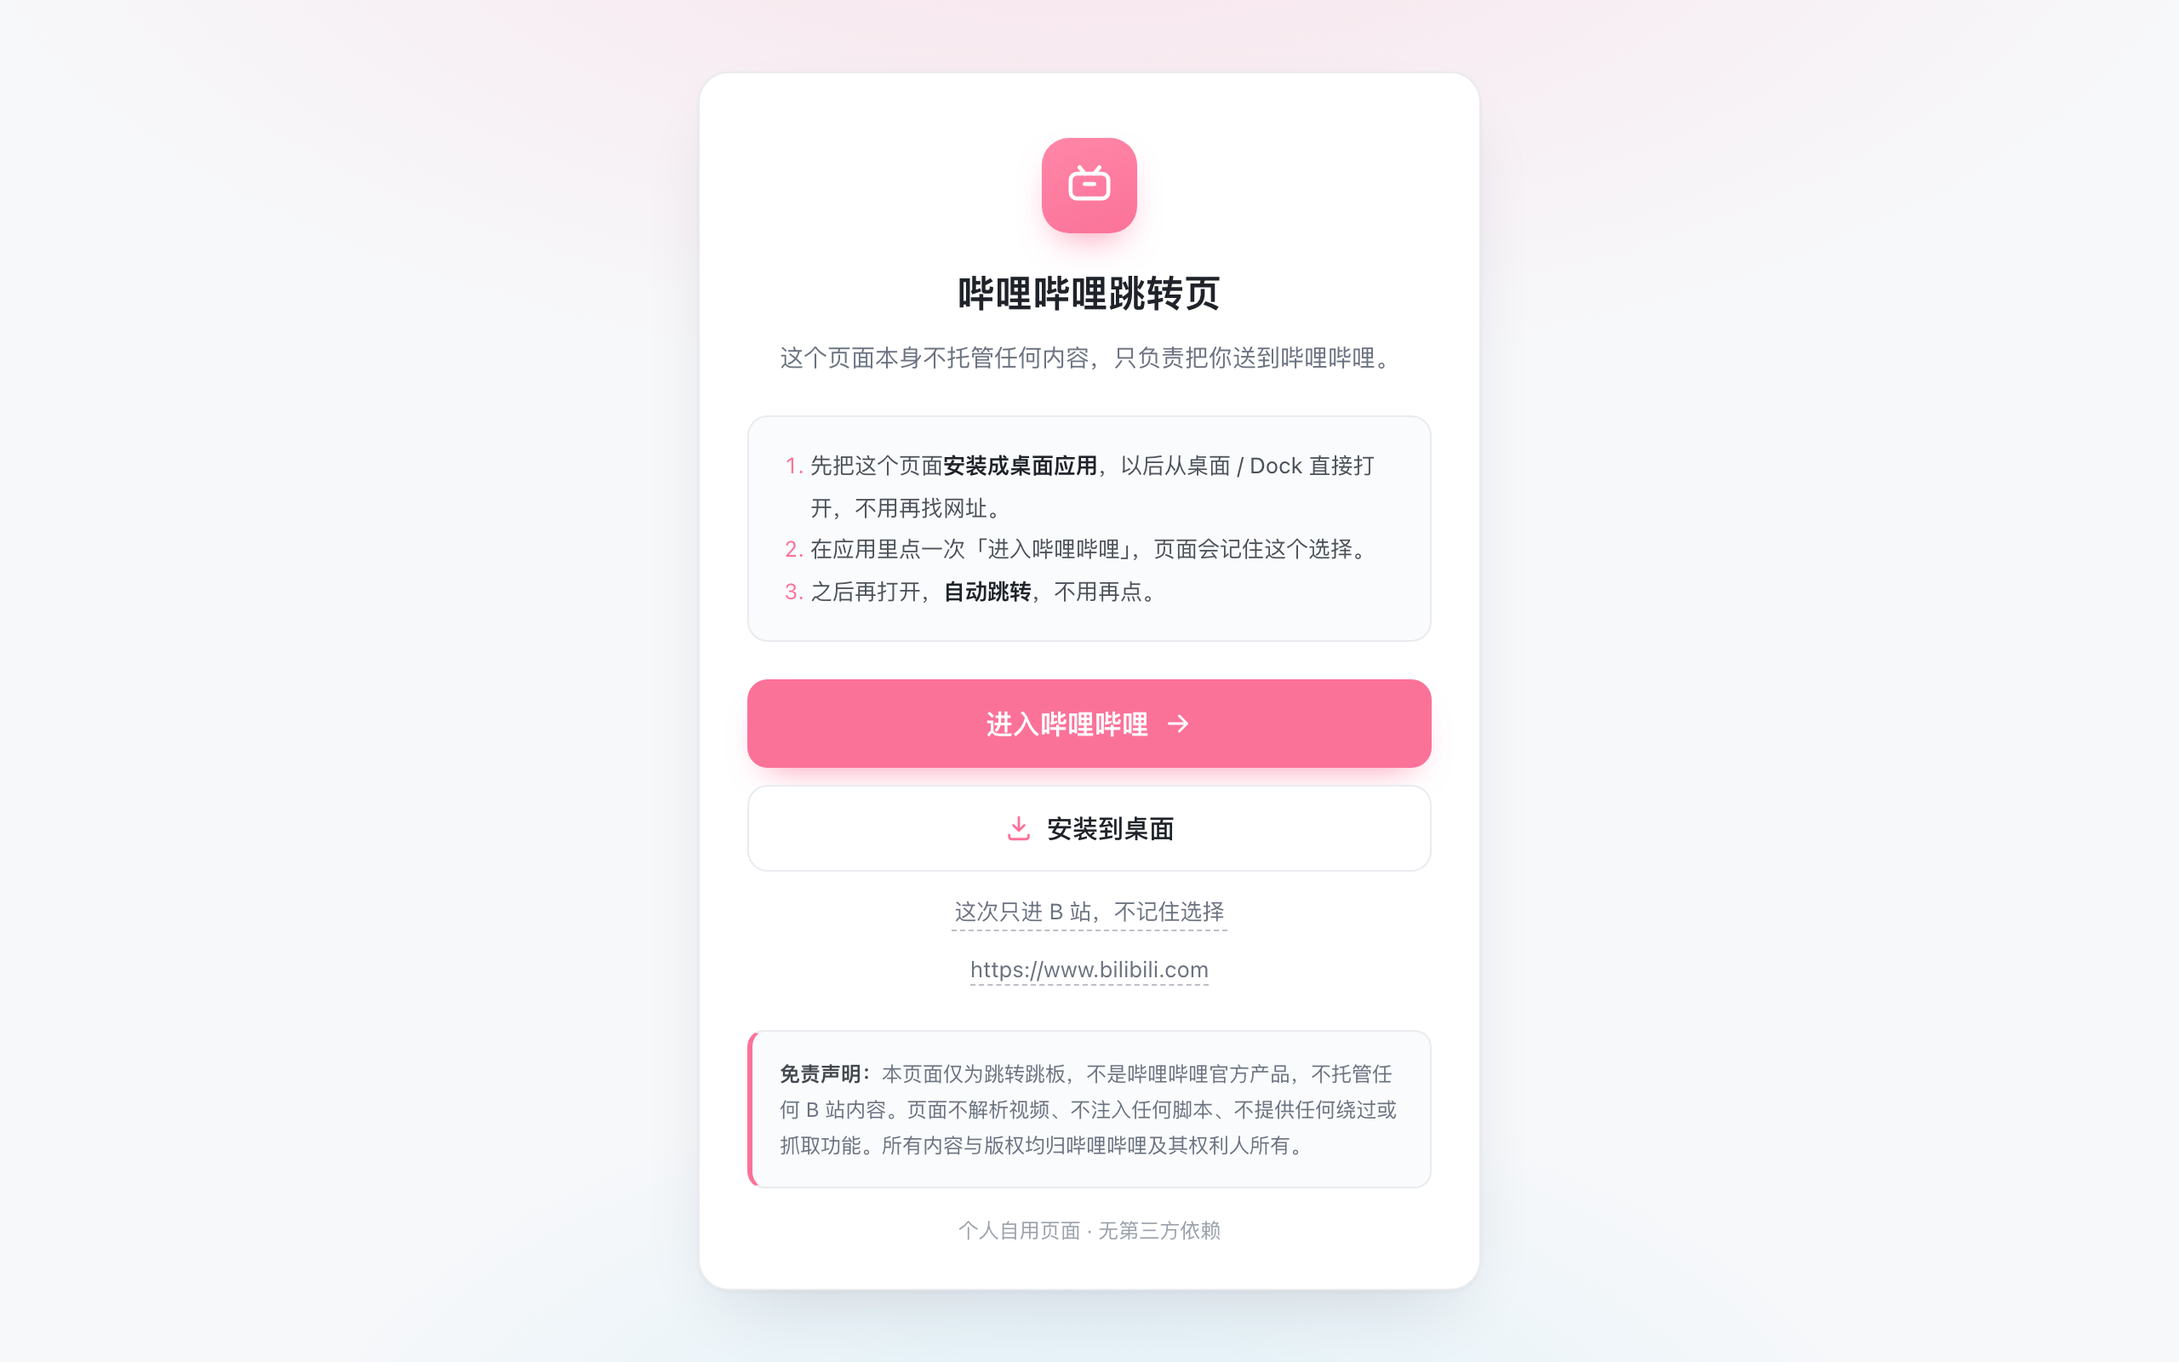
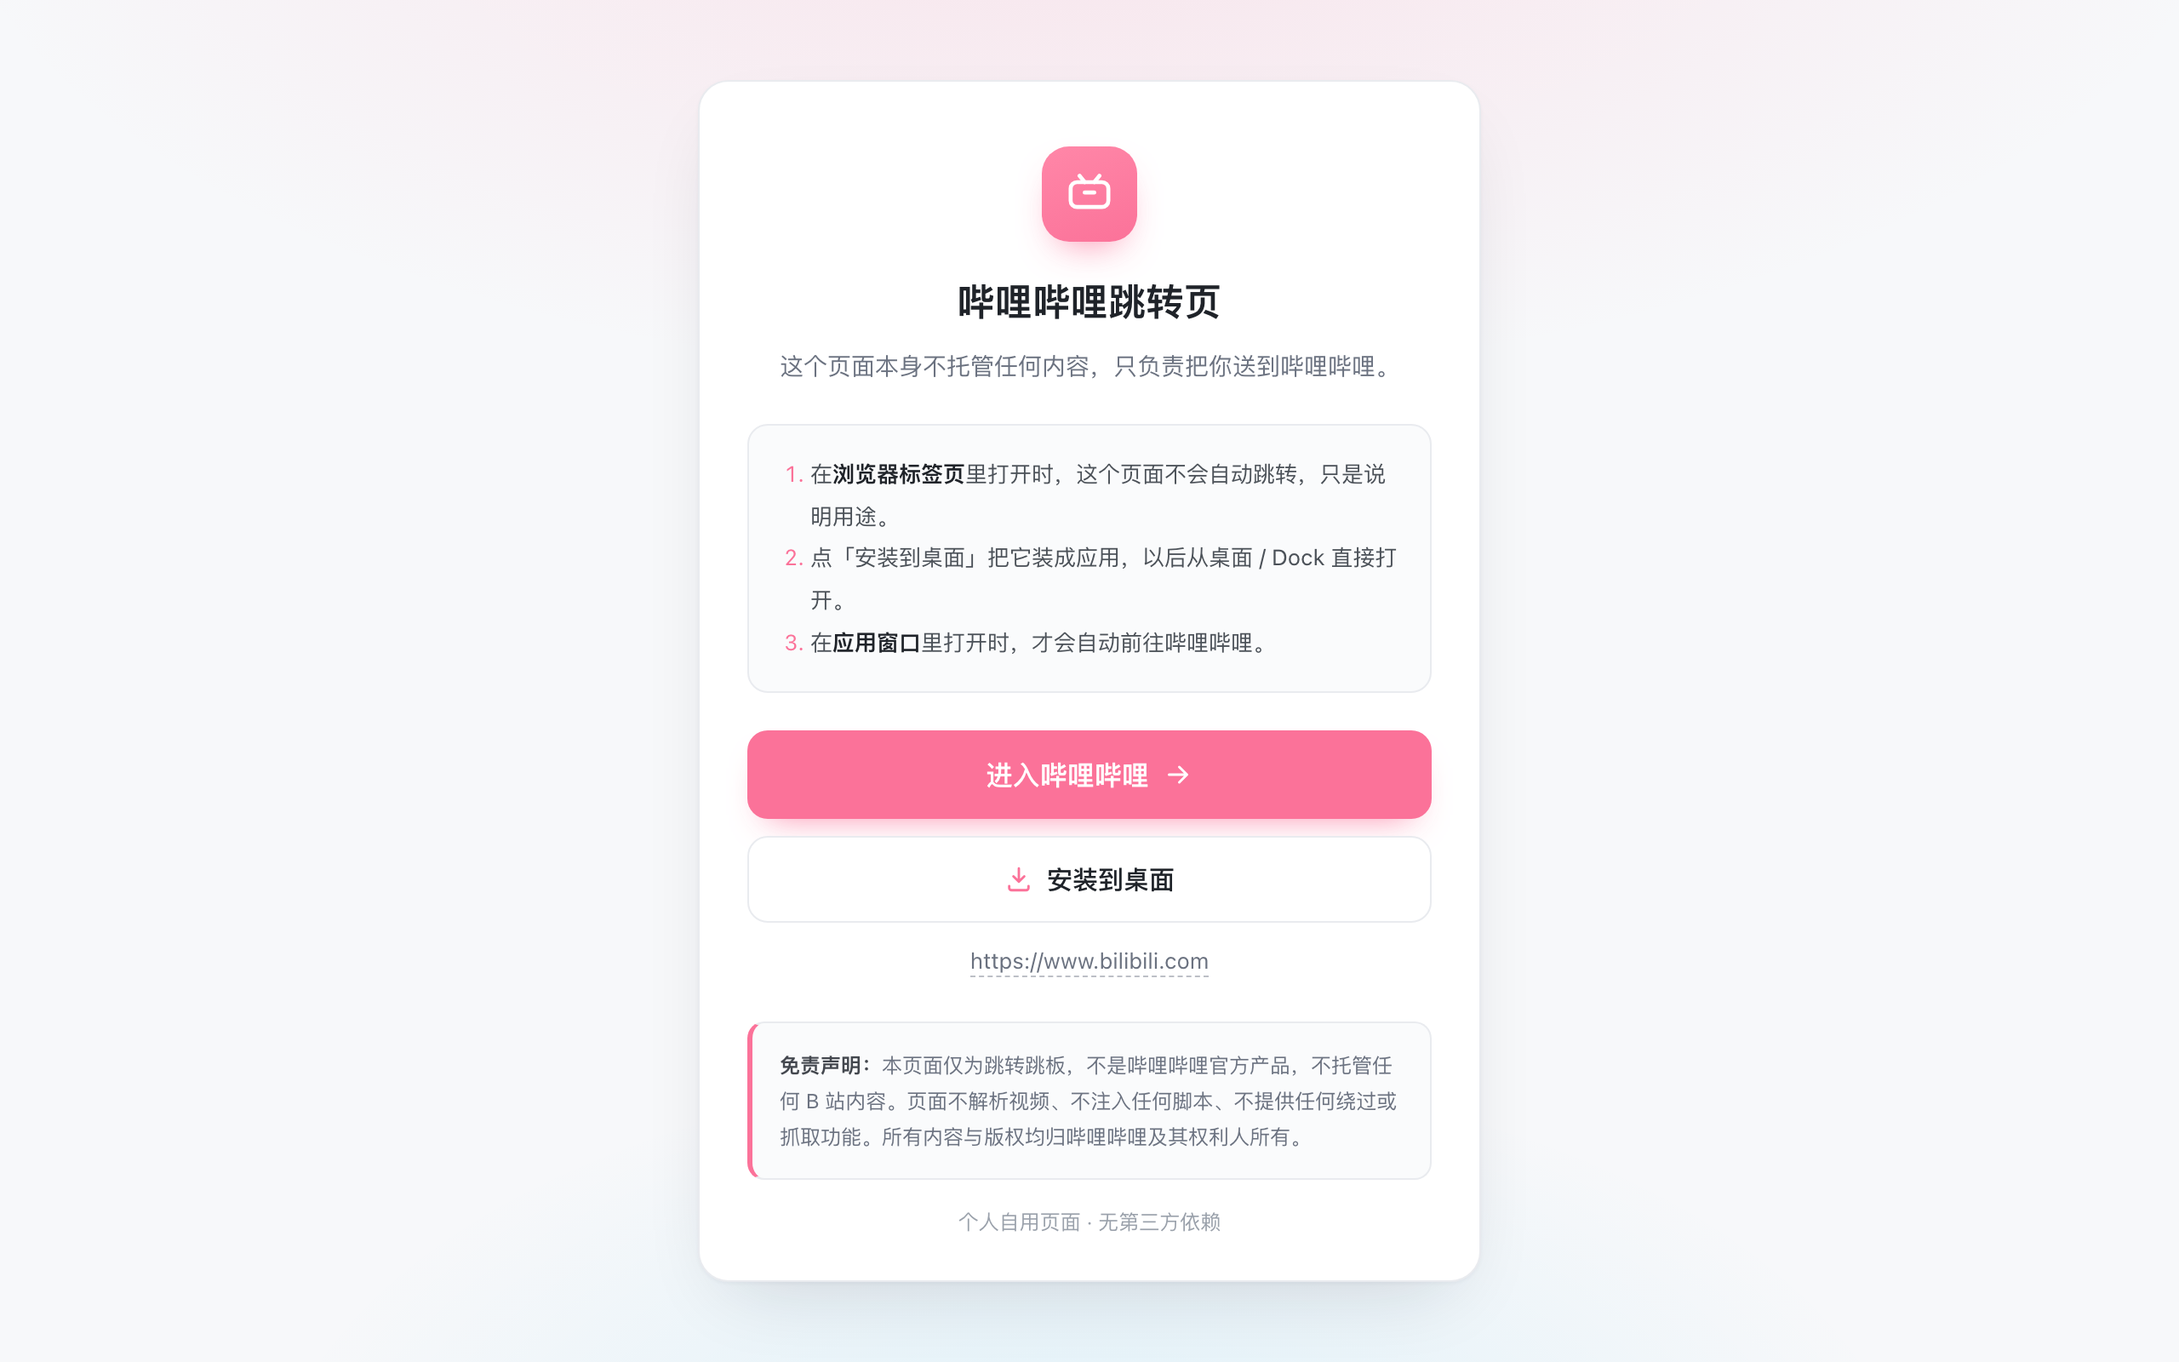
feat: 用 display-mode 识别应用窗口，仅在应用窗口自动跳转

diff --git a/index.html b/index.html
@@ -236,22 +236,6 @@
 
   .plain-link:hover { color: var(--brand); border-color: var(--brand); }
 
-  .linkish {
-    display: inline-block;
-    margin: 12px 0 0;
-    padding: 2px;
-    font-size: 13px;
-    font-family: inherit;
-    color: var(--ink-mute);
-    background: none;
-    border: 0;
-    border-bottom: 1px dashed rgba(107, 114, 128, 0.45);
-    cursor: pointer;
-    transition: color 0.18s ease, border-color 0.18s ease;
-  }
-
-  .linkish:hover { color: var(--brand); border-color: var(--brand); }
-
   .notice {
     margin-top: 26px;
     padding: 14px 16px;
@@ -316,13 +300,13 @@
 
   <p class="lead" id="lead">这个页面本身不托管任何内容，只负责把你送到哔哩哔哩。</p>
 
-  <!-- 首次使用：停下来解释 + 安装 + 一键进入 -->
+  <!-- 浏览器标签页：停下来解释 + 安装 + 手动进入 -->
   <div id="firstRun">
     <div class="steps">
       <ol>
-        <li>先把这个页面<strong>安装成桌面应用</strong>，以后从桌面 / Dock 直接打开，不用再找网址。</li>
-        <li>在应用里点一次「进入哔哩哔哩」，页面会记住这个选择。</li>
-        <li>之后再打开，<strong>自动跳转</strong>，不用再点。</li>
+        <li>在<strong>浏览器标签页</strong>里打开时，这个页面不会自动跳转，只是说明用途。</li>
+        <li>点「安装到桌面」把它装成应用，以后从桌面 / Dock 直接打开。</li>
+        <li>在<strong>应用窗口</strong>里打开时，才会自动前往哔哩哔哩。</li>
       </ol>
     </div>
 
@@ -342,10 +326,6 @@
     </button>
 
     <p class="install-note" id="installNote"></p>
-
-    <div>
-      <button class="linkish" id="jumpOnceBtn" type="button">这次只进 B 站，不记住选择</button>
-    </div>
   </div>
 
   <!-- 已记住选择：直接跳转 -->
@@ -362,9 +342,6 @@
         <path d="M5 12h13M13 6l6 6-6 6" />
       </svg>
     </a>
-    <div>
-      <button class="linkish" id="stopAutoBtn" type="button">取消自动跳转（下次先停在这里）</button>
-    </div>
   </div>
 
   <a class="plain-link" href="https://www.bilibili.com" rel="noopener noreferrer">https://www.bilibili.com</a>
@@ -382,8 +359,7 @@
   "use strict";
 
   var CONFIG = {
-    target: "https://www.bilibili.com",
-    autoKey: "bili-jump:auto"
+    target: "https://www.bilibili.com"
   };
 
   var el = {
@@ -393,8 +369,6 @@
     enterText: document.getElementById("enterText"),
     installBtn: document.getElementById("installBtn"),
     installNote: document.getElementById("installNote"),
-    jumpOnce: document.getElementById("jumpOnceBtn"),
-    stopAuto: document.getElementById("stopAutoBtn"),
     hint: document.getElementById("hint"),
     badge: document.getElementById("modeBadge"),
     modeText: document.getElementById("modeText"),
@@ -402,21 +376,22 @@
     sr: document.getElementById("sr")
   };
 
-  var standalone = false;
+  /* ---------- 识别「应用窗口」还是「浏览器标签页」 ----------
+     Chrome 应用模式窗口（--app=URL）和已安装的 PWA，窗口里
+     display-mode 是 standalone；普通标签页则是 browser。
+     实测数据（Chrome 157 / macOS）：
+       应用窗口 → standalone:true, browser:false, 高度差 28
+       普通标签 → standalone:false, browser:true, 高度差 87
+     注意 navigator.windowControlsOverlay.visible 在两种模式下都是 false，
+     不可用。 */
+  var isAppWindow = false;
   try {
-    standalone = window.matchMedia("(display-mode: standalone)").matches ||
+    isAppWindow =
+      window.matchMedia("(display-mode: standalone)").matches ||
+      window.matchMedia("(display-mode: minimal-ui)").matches ||
+      window.matchMedia("(display-mode: fullscreen)").matches ||
       window.navigator.standalone === true;
   } catch (e) {}
-
-  function prefGet() {
-    try { return localStorage.getItem(CONFIG.autoKey) === "1"; } catch (e) { return false; }
-  }
-  function prefSet(v) {
-    try {
-      if (v) localStorage.setItem(CONFIG.autoKey, "1");
-      else localStorage.removeItem(CONFIG.autoKey);
-    } catch (e) {}
-  }
 
   var jumping = false;
   function jump() {
@@ -430,49 +405,29 @@
     el.installNote.classList.add("show");
   }
 
-  /* ---------- 首次停留态 ---------- */
+  /* ---------- 浏览器标签页：停住 ---------- */
   function renderFirstRun() {
     el.firstRun.hidden = false;
     el.autoRun.hidden = true;
-
-    if (standalone) {
-      el.badge.hidden = false;
-      el.modeText.textContent = "已作为应用运行";
-      el.lead.textContent = "点一次下面的按钮，之后每次打开都会自动前往哔哩哔哩。";
-      el.enterText.textContent = "进入哔哩哔哩，以后自动跳转";
-      el.jumpOnce.textContent = "这次先不记住";
-    }
-    el.sr.textContent = "当前停留在跳转页。点击进入哔哩哔哩后，页面会记住选择，之后自动跳转。";
+    el.sr.textContent = "当前是浏览器标签页，页面不会自动跳转。可点击进入哔哩哔哩，或安装到桌面。";
   }
 
-  /* ---------- 自动跳转态：不再倒计时，直接走 ---------- */
+  /* ---------- 应用窗口：直接跳 ---------- */
   function renderAuto() {
     el.firstRun.hidden = true;
     el.autoRun.hidden = false;
-    if (standalone) {
-      el.badge.hidden = false;
-      el.modeText.textContent = "已作为应用运行 · 自动跳转已开启";
-    }
-    el.sr.textContent = "已记住选择，正在直接跳转到哔哩哔哩。";
-    // 先让「正在前往」这一帧画出来，随即跳转（约 1 帧，肉眼无感）
+    el.badge.hidden = false;
+    el.modeText.textContent = "已作为应用运行 · 自动跳转";
+    el.lead.textContent = "应用窗口已识别，正在直接前往哔哩哔哩。";
+    el.sr.textContent = "已识别为应用窗口，正在直接跳转到哔哩哔哩。";
+    // 先画一帧「正在前往」，随即跳转（约 30ms，肉眼无感）
     requestAnimationFrame(function () {
       requestAnimationFrame(jump);
     });
   }
 
   /* ---------- 交互 ---------- */
-  el.enterBtn.addEventListener("click", function () {
-    prefSet(true);
-    jump();
-  });
-
-  el.jumpOnce.addEventListener("click", jump);
-
-  el.stopAuto.addEventListener("click", function () {
-    prefSet(false);
-    el.autoRun.hidden = true;
-    renderFirstRun();
-  });
+  el.enterBtn.addEventListener("click", jump);
 
   /* ---------- 安装（PWA） ---------- */
   var deferredPrompt = null;
@@ -506,24 +461,26 @@
   /* ---------- 启动 ---------- */
   var forceStay = false;
   try {
-    var q = new URLSearchParams(window.location.search);
-    forceStay = q.get("stay") === "1";
+    forceStay = new URLSearchParams(window.location.search).get("stay") === "1";
   } catch (e) {}
 
-  if (forceStay) prefSet(false);
-
-  renderFirstRun();
-
-  if (forceStay) {
-    showNote("已取消自动跳转（地址带了 ?stay=1）。下次打开会先停在这里。");
-  } else if (prefGet()) {
+  if (isAppWindow && !forceStay) {
+    // 应用窗口：直接跳
     renderAuto();
-  } else if (!standalone) {
-    // 浏览器里没看到安装入口时，给一条手动路径
-    installedHintTimer = setTimeout(function () {
-      if (deferredPrompt || el.installBtn.classList.contains("show")) return;
-      showNote("没看到安装按钮？Chrome 里点右上角 ⋮ →「保存并分享」→「安装页面为应用」。");
-    }, 2500);
+  } else {
+    // 浏览器标签页（或应用窗口里带了 ?stay=1）：停住
+    renderFirstRun();
+    if (isAppWindow) {
+      el.badge.hidden = false;
+      el.modeText.textContent = "已作为应用运行 · 本次不跳转";
+      showNote("已暂停自动跳转（地址带了 ?stay=1）。下次在应用里打开会自动前往。");
+    } else {
+      // 标签页里没看到安装入口时，给一条手动路径
+      installedHintTimer = setTimeout(function () {
+        if (deferredPrompt || el.installBtn.classList.contains("show")) return;
+        showNote("没看到安装按钮？Chrome 里点右上角 ⋮ →「保存并分享」→「安装页面为应用」。");
+      }, 2500);
+    }
   }
 
   /* ---------- Service Worker（提升安装兼容性，不做缓存） ---------- */

diff --git a/README.md b/README.md
@@ -2,7 +2,7 @@
 
 一个托管在 GitHub Pages 上的**纯静态跳转跳板页**，个人自用；也可以安装成桌面应用（PWA）。
 
-首次打开会停在原地讲清楚用途，并给出「安装到桌面」入口；点一次「进入哔哩哔哩」后记住选择，**之后每次打开直接跳转**到 [bilibili.com](https://www.bilibili.com)。全站不依赖任何第三方库、后端服务或 iframe。
+在浏览器标签页里打开时它不跳转，只说明用途并给出「安装到桌面」入口；**在应用窗口里打开时自动直达** [bilibili.com](https://www.bilibili.com)——靠 `display-mode` 判断，不弹倒计时，也不依赖本地记忆。全站不依赖任何第三方库、后端服务或 iframe。
 
 > 线上地址：<https://adrianandroid.github.io/chrome-bili-jump/>
 
@@ -72,9 +72,9 @@ open ~/Applications/哔哩哔哩.app
 
 ## 功能
 
-- **首次打开停在原地，不跳转**：先把用途讲清楚，同时给出安装入口和「进入哔哩哔哩」按钮
-- 点一次「进入哔哩哔哩」后，页面用 `localStorage` 记住选择；**之后每次打开直接跳转，不再等倒计时**
-- 想恢复停留态：在网址后加 `?stay=1`（会清掉记忆并停在首页）
+- **在浏览器标签页里打开时不会跳转**：只说明用途，并给出安装入口和「进入哔哩哔哩」按钮
+- **在应用窗口里（`.app` 或已安装的 PWA）自动直接跳转**，靠 `display-mode` 识别，无需任何记忆开关
+- 想在应用窗口里临时不跳：网址后加 `?stay=1`
 - 可作为 PWA **安装到桌面**（Chrome 地址栏安装图标 / 菜单「安装页面为应用」）
 - 手机 / 电脑双端自适应，安全区（刘海屏、手势条）留白；可安装后跑在独立窗口里
 - 带完整免责声明，无第三方依赖
@@ -139,35 +139,41 @@ chrome-bili-jump/
 - 字体尺寸用 `clamp()`（如 `clamp(19px, 4.6vw, 22px)`），字号随视口平滑变化，不需要为每个断点写一套 media query；
 - 数字类文本统一用 `font-variant-numeric: tabular-nums`，宽度不随数值变化抖动。
 
-### 3. 停留态与直接跳转
+### 3. 用窗口模式决定要不要自动跳
 
-页面有两个状态，靠 `localStorage` 里的 `bili-jump:auto` 决定：
+不再依赖 localStorage 记忆，而是**判断当前是不是应用窗口**：
 
 ```js
-var CONFIG = { target: "https://www.bilibili.com", autoKey: "bili-jump:auto" };
+var isAppWindow =
+  matchMedia('(display-mode: standalone)').matches ||
+  matchMedia('(display-mode: minimal-ui)').matches ||
+  matchMedia('(display-mode: fullscreen)').matches ||
+  navigator.standalone === true;
 
-// 首次：firstRun 显示说明 + 安装 + 进入按钮，不计时
-// 点「进入哔哩哔哩」→ prefSet(true) → location.replace(target)
-// 已记住：autoRun 显示「正在前往…」，两帧后立刻 location.replace(target)
+// 应用窗口 → 「正在前往…」一帧后直接 location.replace(target)
+// 浏览器标签页 → 停在首页，只提供说明 / 安装 / 手动进入
 ```
 
-**首访为什么停住**：安装入口只在这个页面被打开时存在，一自动跳走就永远没机会点安装。所以首屏必须停下来，让人先装、再决定。
+**实测依据（Chrome 157 / macOS，用 CDP 直接读值，不靠肉眼）**
 
-**为什么记住后不倒数**：这是跳板页，不是内容页——用户已经表达过「以后都进 B 站」，再多等 5 秒没有收益。所以直接 `location.replace()`。
+| 检测项 | Chrome 应用模式窗口（`--app=`） | 普通标签页 |
+| --- | --- | --- |
+| `(display-mode: standalone)` | **true** | false |
+| `(display-mode: browser)` | false | **true** |
+| `outerHeight - innerHeight` | 28（只有标题栏） | 87（标题栏 + 标签栏 +地址栏） |
+| `navigator.windowControlsOverlay.visible` | false | false |
 
-用两帧（`requestAnimationFrame` × 2）再跳，是为了让「正在前往…」这一帧先画出来，避免整页白屏闪一下；实际耗时约 30ms，肉眼无感。
+结论：
 
-取消方式：
+- `display-mode` 这个媒体查询是可靠信号，两个场景互斥；`windowControlsOverlay.visible` 在两种模式下都是 `false`，**不能用**；高度差虽然也能区分（28 vs 87），但会被缩放、全屏、自定义窗口干扰，只作参考不作主判据。
+- 已安装的 PWA 跑起来同样是 `display-mode: standalone`，所以 PWA 窗口和 `.app` 窗口都会被认成「应用窗口」，行为一致。
 
-- 浏览器里访问 `?stay=1` 会清掉记忆并停在首页（启动时解析 `URLSearchParams`，命中就 `prefSet(false)`）；
-- 页面上的「取消自动跳转」按钮仍然保留，用于跳转被拦下、页面没走掉的情况。
+细节：
 
-补充细节：
-
-- 跳转用 `location.replace()` 而不是 `location.href`，浏览器「后退」不会又回到跳转页再跳一次；
-- `localStorage` 全部包在 `try/catch` 里，隐私模式或 `file://` 下失败也不会报错；
-- 跳转加了 `jumping` 标志位，避免重复触发；
-- 跳不出去时（比如网络拦截），页面上留着「没有自动跳转？点这里」的按钮兜底。
+- 用两帧（`requestAnimationFrame` × 2）再跳，让「正在前往…」先画出来，避免整页白屏闪；实际约 30ms。
+- 跳转用 `location.replace()`，浏览器「后退」不会又回到跳转页再跳一次；`jumping` 标志位防止重复触发。
+- 跳不出去时（网络拦截等），页面上留着「没有自动跳转？点这里」兜底。
+- 想在应用窗口里临时不跳：地址后加 `?stay=1`，此时即使识别为应用窗口也停在首页。
 
 ### 3.5 安装入口（beforeinstallprompt）
 
@@ -213,11 +219,11 @@ python3 -m http.server 8080
 # 浏览器打开 http://localhost:8080
 ```
 
-首次停留在页面、不会自动跳，可以慢慢调样式。测完想回到「已记住」状态，在控制台执行 `localStorage.removeItem('bili-jump:auto')`，或点页面上的「取消自动跳转」。
+`file://` 下 `display-mode` 一直是 `browser`，所以页面永远停在首页，方便慢慢调样式。
 
 直接双击 `index.html`（`file://`）也能看页面，但 `file://` 下 Service Worker 不注册、Chrome 不会出现安装入口——**测安装相关行为必须用 `http://localhost` 或 HTTPS**。
 
-注意：点过「进入哔哩哔哩」后本地就会记住选择，下次打开直接跳转；想调试停留态，访问 `?stay=1`，或在控制台清掉 `bili-jump:auto`。
+注意：用 `file://` 打开时 `display-mode` 是 `browser`，所以永远停在首页，适合调样式；要验证自动跳转，用 `--app=http://localhost:8080/` 启动 Chrome，或直接装成 PWA 后打开。
 
 ## 部署（GitHub Pages）
 
@@ -265,8 +271,8 @@ git push origin main
 
 | 想改什么 | 改哪里 |
 | --- | --- |
-| 取消自动跳转 | 网址后加 `?stay=1`，或清掉 localStorage 的 `bili-jump:auto` |
-| 是否默认自动跳 | `CONFIG.autoKey` 对应的 localStorage 值；或改 `prefGet()` 的默认返回 |
+| 应用窗口里临时不跳 | 网址后加 `?stay=1` |
+| 自动跳转的判定条件 | `isAppWindow` 里那几条 `matchMedia` 判断 |
 | 跳转目标 | `CONFIG.target`，以及 `<a href>` 两处链接 |
 | 安装按钮文案 | `#installBtn` 文本、`#installNote` 提示 |
 | 应用名 / 图标 | `manifest.webmanifest` 的 `name` / `short_name` / `icons`，图标在 `icons/` |
